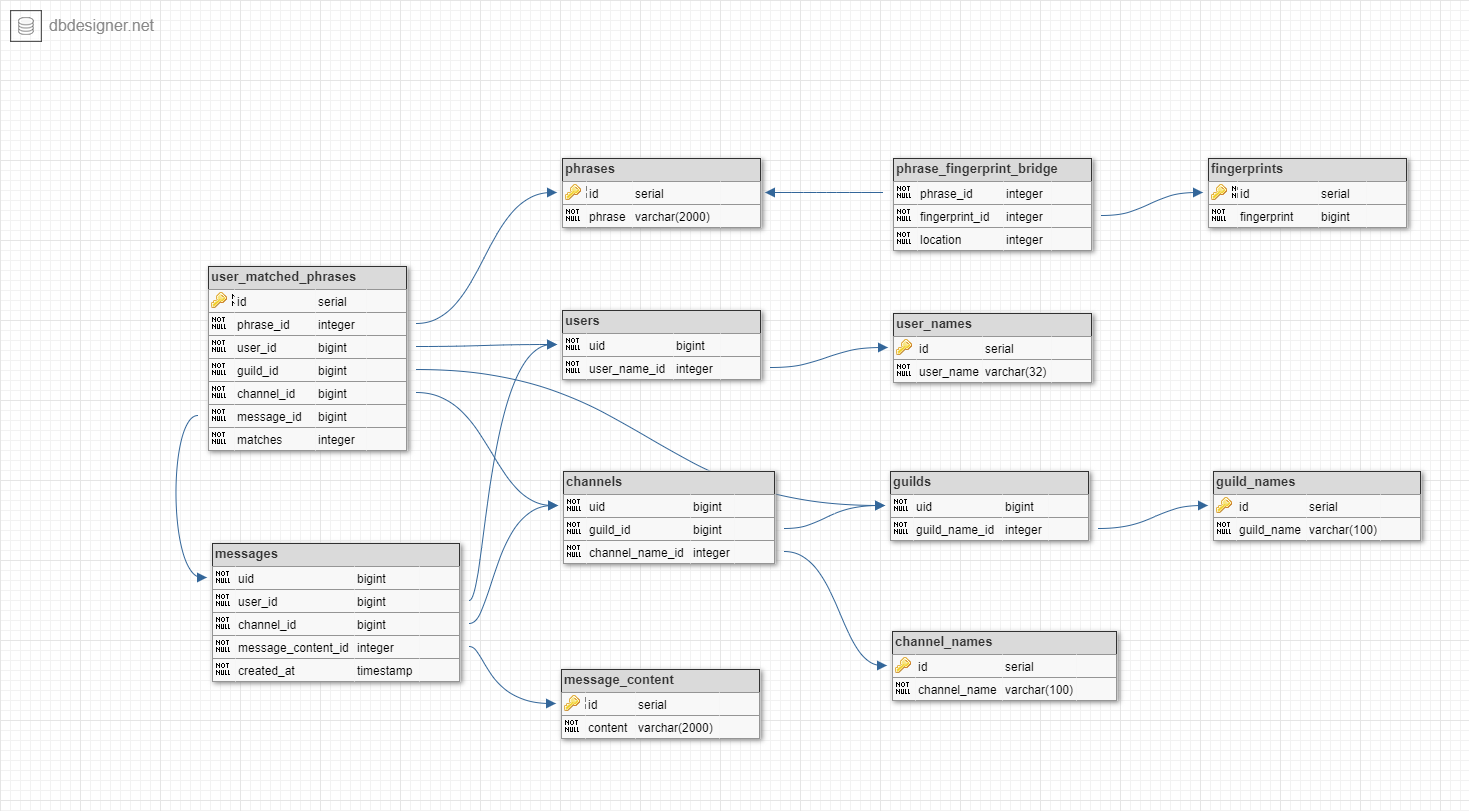
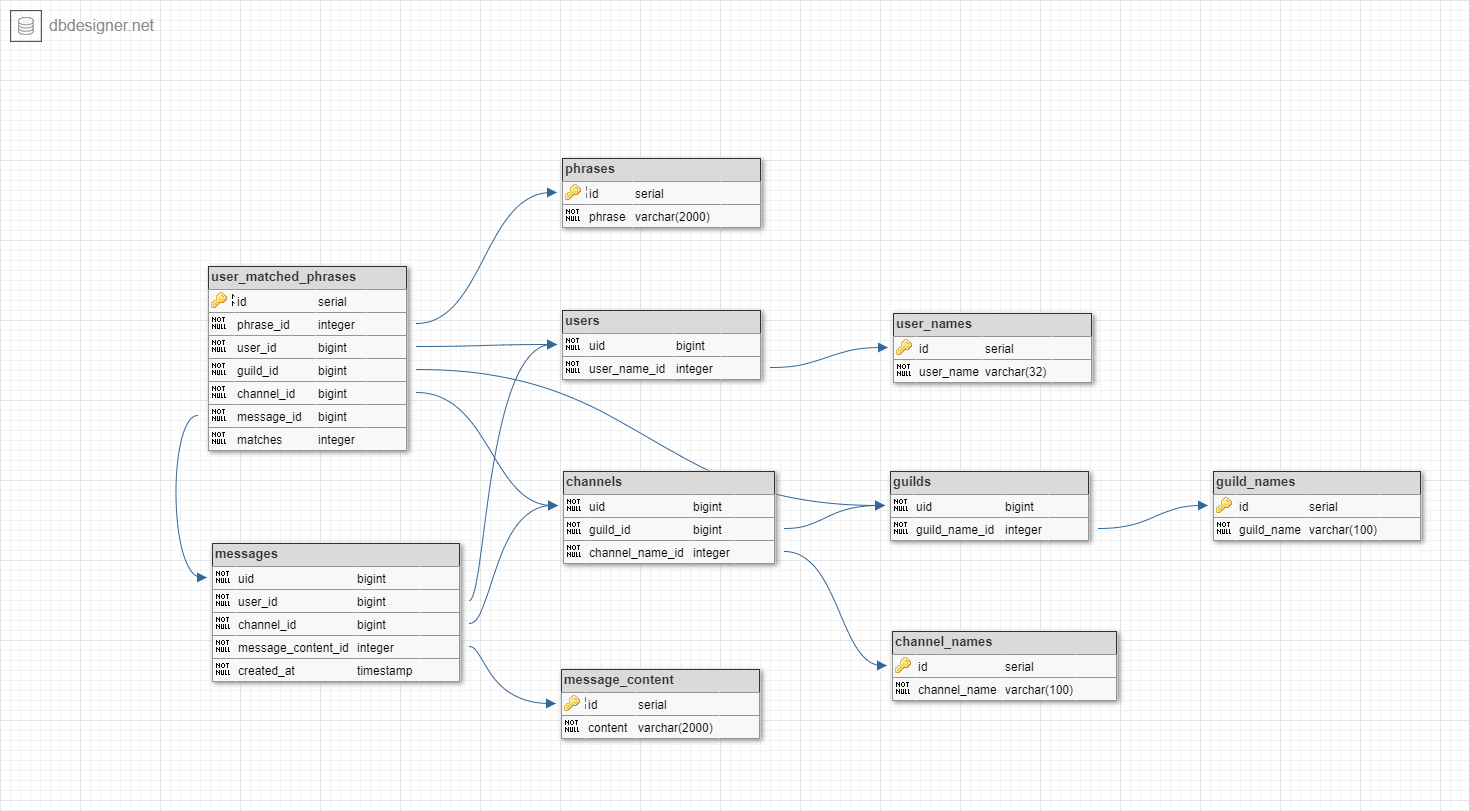
Removing Fingerprints from database. CPU is cheap, calculating fingerprints is pretty fast, no need to hit the database(slow) each time.

Changed region(s): [[0.6127, 0.185, 0.7658, 0.3391], [0.7965, 0.185, 0.9803, 0.3083]]

diff --git a/gamerbot/gamerbot.py b/gamerbot/gamerbot.py
@@ -2,7 +2,7 @@ import discord
 
 from .database.conditionals import Eq
 from .database.database import Database, Sum
-from .database.functions import ingest_if_not_exist_returning, ingest_if_not_exist
+from .database.functions import ingest_if_not_exist_returning
 from .database.ordering import Desc
 from .database.tables import *
 from .util.fingerprint import Fingerprint, template_match_fingerprints
@@ -43,17 +43,6 @@ class GamerBot(discord.AutoShardedClient):
         for phrase in phrases:
             phrase_id = ingest_if_not_exist_returning(db, PHRASES, {PHRASES.PHRASE:phrase.lower()}, [PHRASES.ID])
             self.phrase_dict[phrase_id] = phrase
-
-            fingerprints = self.fingerprint.generate(phrase)
-
-            for fingerprint, location in fingerprints:
-                fingerprint_id = ingest_if_not_exist_returning(db, FINGERPRINTS, {FINGERPRINTS.FINGERPRINT: fingerprint}, [FINGERPRINTS.ID])
-
-                phrase_bridge_record = {PHRASE_FINGERPRINT_BRIDGE.PHRASE_ID: phrase_id,
-                                        PHRASE_FINGERPRINT_BRIDGE.FINGERPRINT_ID: fingerprint_id,
-                                        PHRASE_FINGERPRINT_BRIDGE.LOCATION: location}
-
-                ingest_if_not_exist(db, PHRASE_FINGERPRINT_BRIDGE, phrase_bridge_record)
 
         self.db_connection.commit()
 

diff --git a/gamerbot/database/tables.py b/gamerbot/database/tables.py
@@ -33,15 +33,6 @@ class CHANNEL_NAMES(_TABLE):
     CHANNEL_NAME = "channel_name"
 
 
-class FINGERPRINTS(_TABLE):
-    name = "fingerprints"
-    columns = ["id", "fingerprint"]
-    non_pk_columns = columns[1:]
-
-    ID = "id"
-    FINGERPRINT = "fingerprint"
-
-
 class GUILDS(_TABLE):
     name = "guilds"
     columns = ["uid", "guild_name_id"]
@@ -88,16 +79,6 @@ class PHRASES(_TABLE):
 
     ID = "id"
     PHRASE = "phrase"
-
-
-class PHRASE_FINGERPRINT_BRIDGE(_TABLE):
-    name = "phrase_fingerprint_bridge"
-    columns = ["phrase_id", "fingerprint_id", "location"]
-    non_pk_columns = columns
-
-    PHRASE_ID = "phrase_id"
-    FINGERPRINT_ID = "fingerprint_id"
-    LOCATION = "location"
 
 
 class USERS(_TABLE):
